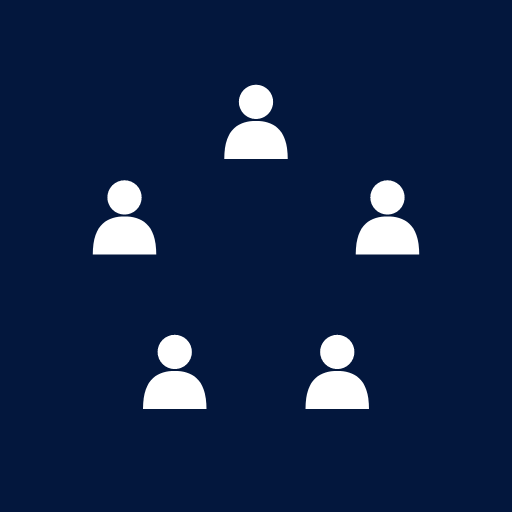
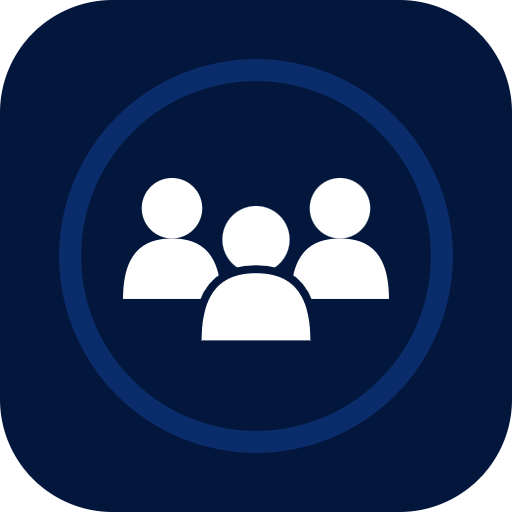
Redesign brand mark system and update assets/docs
Brand mark updated to a ring with a central glyph for better legibility at small sizes. Regenerated all SVG/PNG assets for CircleTools and Secret-Santa with new style. Added ADR-0059, rewrote visual identity spec in naming.md, and updated ADR index and TOC.

diff --git a/docs/process/naming.md b/docs/process/naming.md
@@ -64,22 +64,29 @@ given app gets is still chosen at that app's idea/branding step (below).
 
 The circle primitive from the naming rationale (below) is now drawn. The system:
 
-- **CircleTools (suite) mark:** a **ring of five people** — the figures *form* the circle, with no
-  separate container outline. Five (not more) so it stays legible at a 16 px favicon. Colour: brand
-  **navy `#03173d`** (white on the navy app-icon tile).
-- **Per-app rule:** each app keeps the same ring of five and **swaps what forms it** plus its accent
-  colour. Secret-Santa is a **ring of five gifts** — a **white** wrapped present (box with a cross
-  ribbon and a bow, the ribbon cut out in the ground colour) — on the brand **burgundy `#7a1f2b`**
-  ground. This mirrors the suite mark's white-on-brand treatment (white people on navy → white gifts
-  on burgundy) and lets the icon blend into the burgundy app bar exactly as the Main mark does on navy.
-- **Accessibility / stores:** every mark reads in a single colour (monochrome-safe, per
-  [ADR-0024](../adr/0024-ui-styling-and-theming.md)); app icons are full-bleed opaque squares with the
+- **CircleTools (suite) mark:** a **thin ring enclosing an overlapping trio of people**. The ring is a
+  real circular border (it is *not* formed by the figures), drawn in **deep navy-blue `#0a2c6b`** so it
+  reads as a quiet tone-on-tone frame on the **navy `#03173d`** app-icon tile; the **white** trio in the
+  centre is what carries the mark. Redesigned **2026-09-15** (previously a *ring of five figures*, which
+  turned to mush at favicon size) — see the refinement note below and
+  [ADR-0059](../adr/0059-brand-mark-ring-and-central-glyph.md).
+- **Per-app rule:** each app keeps the **ring + a single central white glyph** and **swaps the glyph**
+  plus the **ring colour**. Secret-Santa is a **white wrapped present** (box with a cross ribbon and a
+  bow, the ribbon cut out in the ground colour) inside a **maroon `#4a0f18`** ring on the brand
+  **burgundy `#7a1f2b`** ground. The maroon ring mirrors CircleTools' deep-navy ring as a recessed,
+  tone-on-tone frame, and the white-on-brand glyph blends into the burgundy app bar exactly as the Main
+  mark does on navy.
+- **Accessibility / stores:** the **central white glyph carries the mark** and clears WCAG AA on every
+  ground (white 17.6:1 on navy, 10.2:1 on burgundy); the tone-on-tone ring (`#0a2c6b` / `#4a0f18`) is a
+  deliberately low-contrast decorative frame, so legibility never depends on it, and each mark still
+  reads when flattened to a single colour (monochrome-safe, per
+  [ADR-0024](../adr/0024-ui-styling-and-theming.md)). App icons are full-bleed opaque squares with the
   content inside the adaptive-icon safe zone (no alpha, no pre-rounded corners — the OS applies the
-  mask). Contrast clears WCAG AA on every ground (navy 17.6:1, white on burgundy 10.2:1).
+  mask).
 
 **Where the assets live** (source of truth):
 - Native (Secret-Santa MAUI): `…/CircleTools.SecretSanta.App/Resources/AppIcon/appicon.svg` (burgundy
-  background) + `appiconfg.svg` (white gift ring) + `Splash/splash.svg`, with `MauiIcon Color="#7a1f2b"`.
+  background) + `appiconfg.svg` (white gift inside a maroon ring) + `Splash/splash.svg`, with `MauiIcon Color="#7a1f2b"`.
   Resizetizer rasterises the store sizes at build.
 - Web PWAs: each app's `wwwroot/favicon.svg` (+ rasterised `favicon.png` / `icon-192.png` /
   `icon-512.png`) and its manifest `theme_color` / `background_color`.
@@ -101,6 +108,17 @@ here is unchanged; only where the saturated colour is applied changed.
 burgundy app bar. The gift glyph was also redrawn — the earlier box-plus-single-ribbon shape rendered
 as a little handled bag at icon size; the current glyph is a box with a full cross ribbon and a compact
 bow, legible as a wrapped present down to 24 px. Ring geometry (five nodes) is unchanged.
+
+**Redesign (2026-09-15, [ADR-0059](../adr/0059-brand-mark-ring-and-central-glyph.md)):** the whole mark
+system moved from a *ring formed of five glyphs* to a **single circular border enclosing one central
+glyph**. The five-glyph ring was busy and illegible at favicon size — the individual figures/gifts
+merged into a blob at 16–20 px. The new system keeps the "circle" idea as an explicit ring and lets a
+single bold glyph carry the mark: CircleTools = an overlapping **trio of white people** in a **deep
+navy-blue `#0a2c6b`** ring on navy; Secret-Santa = the **white wrapped present** (glyph unchanged from
+2026-08-14) in a **maroon `#4a0f18`** ring on burgundy. Both rings are recessed, tone-on-tone frames
+(darker than the ground), chosen over white/accent rings during the icon exploration for a calmer,
+premium look consistent across the two apps. Assets (SVG source + rasterised PNGs + MAUI foreground/
+splash) were regenerated at the paths below.
 
 ## Chosen brand
 

diff --git a/docs/adr/0059-brand-mark-ring-and-central-glyph.md b/docs/adr/0059-brand-mark-ring-and-central-glyph.md
@@ -1,0 +1,90 @@
+---
+status: Accepted
+date: 2026-09-15
+deciders: [adrian-moll]
+tags: [branding, visual-identity, icons, accessibility]
+---
+
+# ADR-0059 — Brand marks: a ring enclosing a central glyph
+
+## Context and problem statement
+
+The suite brand marks (decided 2026-08-13, recorded in
+[naming.md → Visual identity](../process/naming.md)) were built as a **ring formed of five glyphs**:
+five white people arranged in a circle for CircleTools, five white gifts for Secret-Santa. The figures
+*were* the circle — there was no separate border.
+
+At large sizes the five-glyph ring is fine, but at **favicon / small-launcher size (16–24 px)** the
+five glyphs merge into an indistinct blob: neither "people" nor "gifts" nor even "a circle" survives.
+The mark fails exactly where an app icon is used most. Should we keep tuning the five-glyph ring, or
+change the construction?
+
+## Decision drivers
+
+- **Legibility at 16–24 px** is the hard constraint — the mark must read as a favicon and a home-screen
+  icon, not only at 512 px.
+- **Keep the "circle" idea** — it is the brand's core concept ([`Circle`](../glossary/circle.md)) and
+  the reason for the name.
+- **Keep the settled palette** — navy `#03173d`, burgundy `#7a1f2b`, white glyphs (no rebrand).
+- **One consistent system across apps**, so a new app inherits it (per the per-app rule).
+- **Monochrome-safe** and full-bleed opaque icons for stores, per
+  [ADR-0024](0024-ui-styling-and-theming.md).
+
+## Considered options
+
+1. **Keep the five-glyph ring**, tune glyph count / spacing.
+2. **A single circular border enclosing one central glyph** — the ring is drawn as a real border; a
+   single bold glyph sits inside and carries the mark.
+3. **Drop the circle**, use only a centred glyph on the tile.
+
+## Decision outcome
+
+**Chosen: Option 2 — a ring enclosing a central glyph.** It keeps the circle as an explicit, always-
+legible shape while letting one bold glyph (not five small ones) survive at favicon size.
+
+Per-app instances:
+
+- **CircleTools:** an overlapping **trio of white people** inside a **deep navy-blue `#0a2c6b`** ring on
+  the navy `#03173d` tile.
+- **Secret-Santa:** the **white wrapped present** (box + cross ribbon + bow; glyph unchanged from the
+  2026-08-14 refinement) inside a **maroon `#4a0f18`** ring on the burgundy `#7a1f2b` tile.
+
+Both rings are **recessed, tone-on-tone frames** (a shade darker than the ground). White and accent-
+coloured rings (CircleTools blue `#3c6fd1`; a range of reds/golds for Secret-Santa) were explored and
+rejected in favour of the calmer, more premium tone-on-tone look, applied consistently to both apps.
+The central glyph carries all required contrast; the ring is decorative.
+
+## Consequences
+
+- **Positive:** the mark reads at favicon size (glyph-led); the circle concept is now explicit;
+  consistent, extensible per-app system (swap glyph + ring colour); palette unchanged.
+- **Negative:** the ring is intentionally low-contrast, so it nearly disappears below ~20 px — accepted,
+  because the glyph, not the ring, is load-bearing at that size.
+- **Follow-ups:** all mark assets regenerated — shared `app-main.svg` / `app-secretsanta.svg`, each web
+  app's `favicon.svg` + rasterised `favicon.png` (64) / `icon-192.png` / `icon-512.png`, the DocFX
+  `logo.svg` / `favicon.svg`, and the Secret-Santa MAUI `appiconfg.svg` + `Splash/splash.svg`
+  (`appicon.svg` burgundy background unchanged; resizetizer regenerates store sizes at build). The
+  `naming.md` Visual-identity spec is updated with a 2026-09-15 redesign note.
+- **New risks:** none material; a purely visual change with no code/behaviour impact.
+
+## Pros and cons of the options
+
+### Option 1 — keep the five-glyph ring
+- 👍 No asset churn; already shipped.
+- 👎 Fails the primary constraint (illegible at favicon size); the actual problem being solved.
+
+### Option 2 — ring + central glyph
+- 👍 Legible small; keeps the circle; one extensible system; palette unchanged.
+- 👎 Recessed ring fades at the very smallest sizes (acceptable — glyph carries the read).
+
+### Option 3 — centred glyph, no circle
+- 👍 Maximum small-size legibility.
+- 👎 Throws away the "circle" that motivates the whole brand.
+
+## Links
+
+- Related ADRs: [ADR-0024](0024-ui-styling-and-theming.md) (styling/theming, superseded, holds the
+  original brand-mark amendment), [ADR-0057](0057-app-store-naming-and-localization.md) (per-app
+  identity).
+- Spec: [naming.md → Visual identity](../process/naming.md).
+- Glossary: [`Circle`](../glossary/circle.md).

diff --git a/docs/adr/index.md b/docs/adr/index.md
@@ -67,6 +67,7 @@ a row below. Implement only once an ADR is **Accepted**.
 | [0056](0056-decouple-ui-language-from-formatting-region.md) | Decouple UI language from formatting region (**refines ADR-0011**: UI strings follow the chosen language via `CurrentUICulture`; date/number/currency formatting follows the **device/OS region** via `CurrentCulture`, captured at startup and independent of the language — so a Swiss user reading English sees Swiss dates; on the web the region is the browser locale) | Accepted | 2026-09-02 |
 | [0057](0057-app-store-naming-and-localization.md) | App store naming & listing localization (**one universal, stable visible name per app** — "Secret Santa", English, identical in all three store locales and on-device; per-market discoverability lives in the localized **listing title / keywords** (`Secret Santa – Wichteln`, `Père Noël secret`), **not** in the name; store names are not derived from domains, so **no per-language or per-name domains** — the single `<app>.circletools.ch` origin serves every locale; standing rule for every suite app; complements ADR-0046) | Accepted | 2026-09-02 |
 | [0058](0058-account-free-link-shared-groups.md) | Account-free, backend-stored, link-shared groups (a **third storage tier** between local-only and account-synced: the group lives in Postgres keyed by an **unguessable share token**, no account; an **admin link** (shared capability, account-free only, disable/regenerate, retired when an account claims admin) + a **join link** (participant; claim existing/new person × account or device-only); **trust-based + first-claim-locks** assignment privacy with **admin release** as the sole recovery; **release-admin** (My account → Shared by link) so ownership isn't a trap; mode chosen at group creation, default local; per-person crypto = future hardening; **amends NFR-002, glossary/sync, arc42 §8**, narrows ADR-0053, **extends ADR-0022 deletion flow** (hand off as shared by link / keep on device / delete)) | Accepted | 2026-09-13 |
+| [0059](0059-brand-mark-ring-and-central-glyph.md) | Brand marks — a **ring enclosing a central glyph** (replaces the *ring of five glyphs*, which was illegible at favicon size): a real circular border with one bold white glyph inside — CircleTools = overlapping **trio of people** in a **deep navy-blue `#0a2c6b`** ring on navy; Secret-Santa = the **white wrapped present** in a **maroon `#4a0f18`** ring on burgundy; both rings **recessed tone-on-tone**; palette unchanged; per-app rule = swap glyph + ring colour; all SVG/PNG/MAUI assets regenerated; **updates naming.md Visual identity**, extends the ADR-0024 brand-mark amendment | Accepted | 2026-09-15 |
 
 ## Open decisions backlog
 
